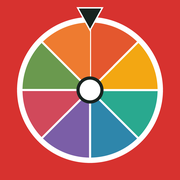
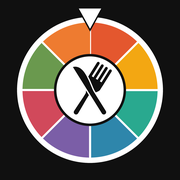
ホーム画面アイコンを完成版に差し替え
Claude-Session: https://claude.ai/code/session_018X6iqCKJHU44dsc6vL7P6o

diff --git a/test.html b/test.html
@@ -4,8 +4,8 @@
 <meta charset="utf-8">
 <meta name="viewport" content="width=device-width,initial-scale=1,viewport-fit=cover">
 <title>どこ食う（テスト）</title>
-<link rel="icon" type="image/png" href="icon/icon-192.png">
-<link rel="apple-touch-icon" href="icon/icon-180.png">
+<link rel="icon" type="image/png" href="icon/icon-192.png?v=2">
+<link rel="apple-touch-icon" href="icon/icon-180.png?v=2">
 <link rel="manifest" href="test.webmanifest">
 <meta name="theme-color" content="#d7322f">
 <meta name="apple-mobile-web-app-title" content="どこ食うテスト">

diff --git a/index.html b/index.html
@@ -4,8 +4,8 @@
 <meta charset="utf-8">
 <meta name="viewport" content="width=device-width,initial-scale=1,viewport-fit=cover">
 <title>どこ食う</title>
-<link rel="icon" type="image/png" href="icon/icon-192.png">
-<link rel="apple-touch-icon" href="icon/icon-180.png">
+<link rel="icon" type="image/png" href="icon/icon-192.png?v=2">
+<link rel="apple-touch-icon" href="icon/icon-180.png?v=2">
 <link rel="manifest" href="manifest.webmanifest">
 <meta name="theme-color" content="#d7322f">
 <meta name="apple-mobile-web-app-title" content="どこ食う">
